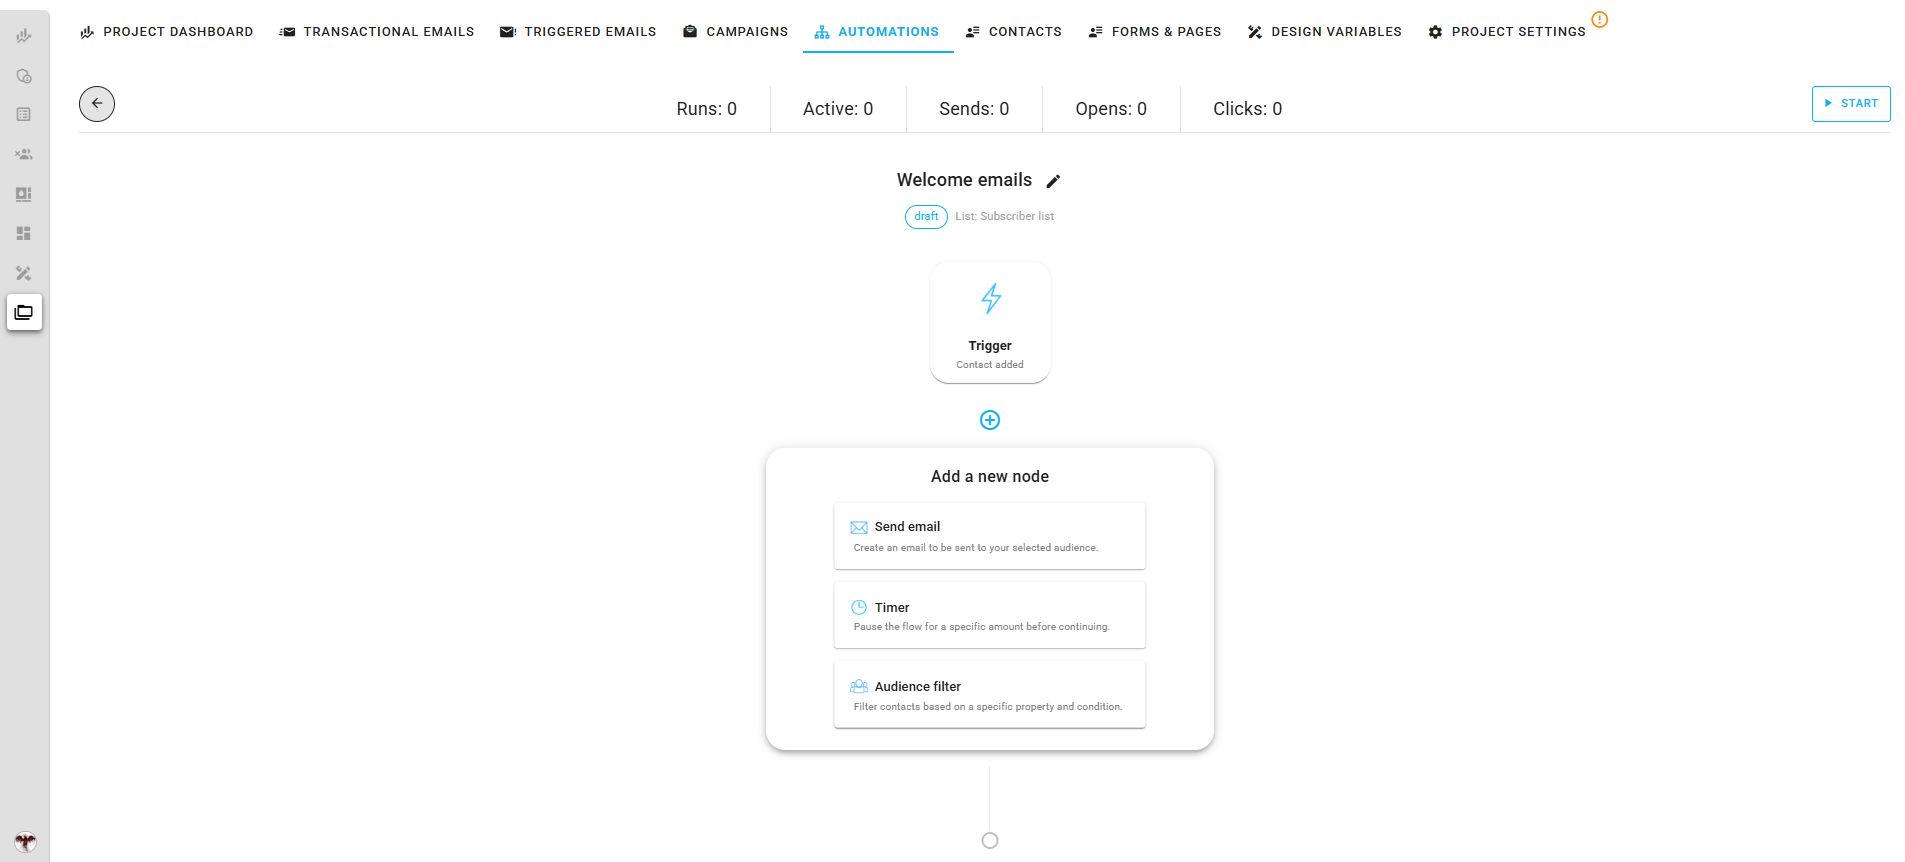
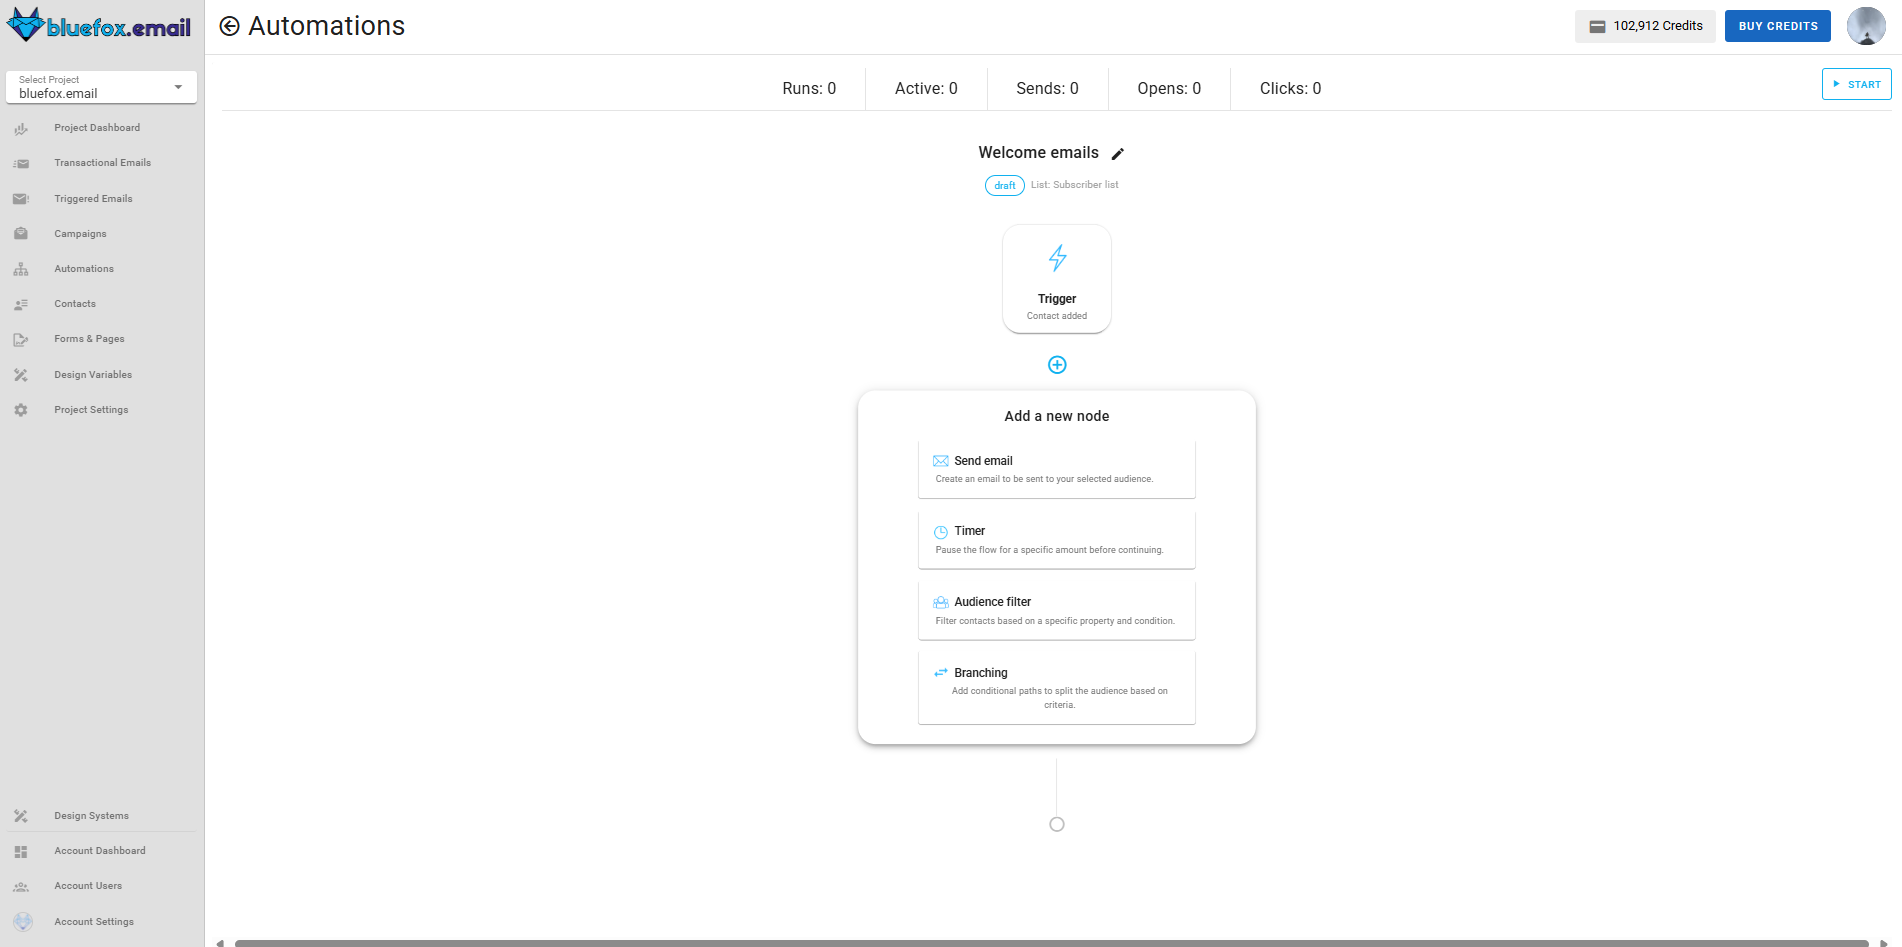
advance-automation-docs

diff --git a/docs/projects/automations.md b/docs/projects/automations.md
@@ -119,18 +119,27 @@ When you click on the timer node:
 
 ## Audience Filter Node
 
-The **Audience Filter Node** allows you to include or exclude contacts based on their properties.
+The **Audience Filter Node** allows you to include or exclude contacts based on their properties or email Activites.
 
 When configuring the filter:
-
+### Property Tab
 - Select a **property** (e.g., `premium`).
 - Choose an **operator**: Any, Equals, Does Not Equal, Contains, Does Not Contain.
 - Enter a **value** (e.g., `true`).
 
 If the contact **passes** the filter, the automation continues to the next node. If it **fails**, the automation stops for that contact.
 
-![Automation node filter card Icon](./project-automation-node-filter-card.webp)
+![Automation node filter card Icon](./project-automation-node-filter-property-based-card.webp)
 
+### Email Activity Tab
+- Choose an **operator**: is-opened, is-clicked, is-not-opened, is-not-clicked.
+- Choose an earlier **Send Email** node from the automation to evaluate.
+- Link (only shown if using `is-clicked` or `is-not-clicked`): 
+  - Optionally specify a link (URL) from the email.
+  - If set, the condition checks whether that **specific link** was clicked or not.
+  - f left blank, it checks whether **any link** in the email was clicked or not.
+
+![Automation node filter card Icon](./project-automation-node-filter-email-based-card.webp)
 
 ## Send Email Node
 
@@ -159,6 +168,41 @@ You can access the **Advanced Settings** feature that allows you to customize ke
 
 For a detailed guide on using the **Advanced Settings**, refer to the [Advanced Settings Documentation](/docs/projects/settings.html#advanced-settings).
 :::
+
+
+
+## Branching Node
+
+The **Branch Node** allows you to create conditional flows based on contact data or email activity. It splits your automation into **multiple paths** and continues only down the path whose **condition is met first**.
+
+![Automation node send card Icon](./project-automation-node-branching-card.webp)
+
+### Condition Node
+
+The **Condition Node** allows you to build dynamic decision paths in your automation. It checks if a contact meets a specific condition based on property values or email activity. If the condition is true, it follows that condition’s sequence, if false, it moves on to evaluate the next condition.
+
+
+
+
+When configuring the filter:
+#### Property Tab
+- Select a **property** (e.g., `premium`).
+- Choose an **operator**: Any, Equals, Does Not Equal, Contains, Does Not Contain.
+- Enter a **value** (e.g., `true`).
+
+If the contact **passes** the filter, the automation continues to the next node. If it **fails**, the automation stops for that contact.
+
+![Automation node filter card Icon](./project-automation-node-condition-property-based-card.webp)
+
+#### Email Activity Tab
+- Choose an **operator**: is-opened, is-clicked, is-not-opened, is-not-clicked.
+- Choose an earlier **Send Email** node from the automation to evaluate.
+- Link (only shown if using `is-clicked` or `is-not-clicked`): 
+  - Optionally specify a link (URL) from the email.
+  - If set, the condition checks whether that **specific link** was clicked or not.
+  - f left blank, it checks whether **any link** in the email was clicked or not.
+
+![Automation node filter card Icon](./project-automation-node-condition-email-based-card.webp)
 
 
 ## Managing Automations
